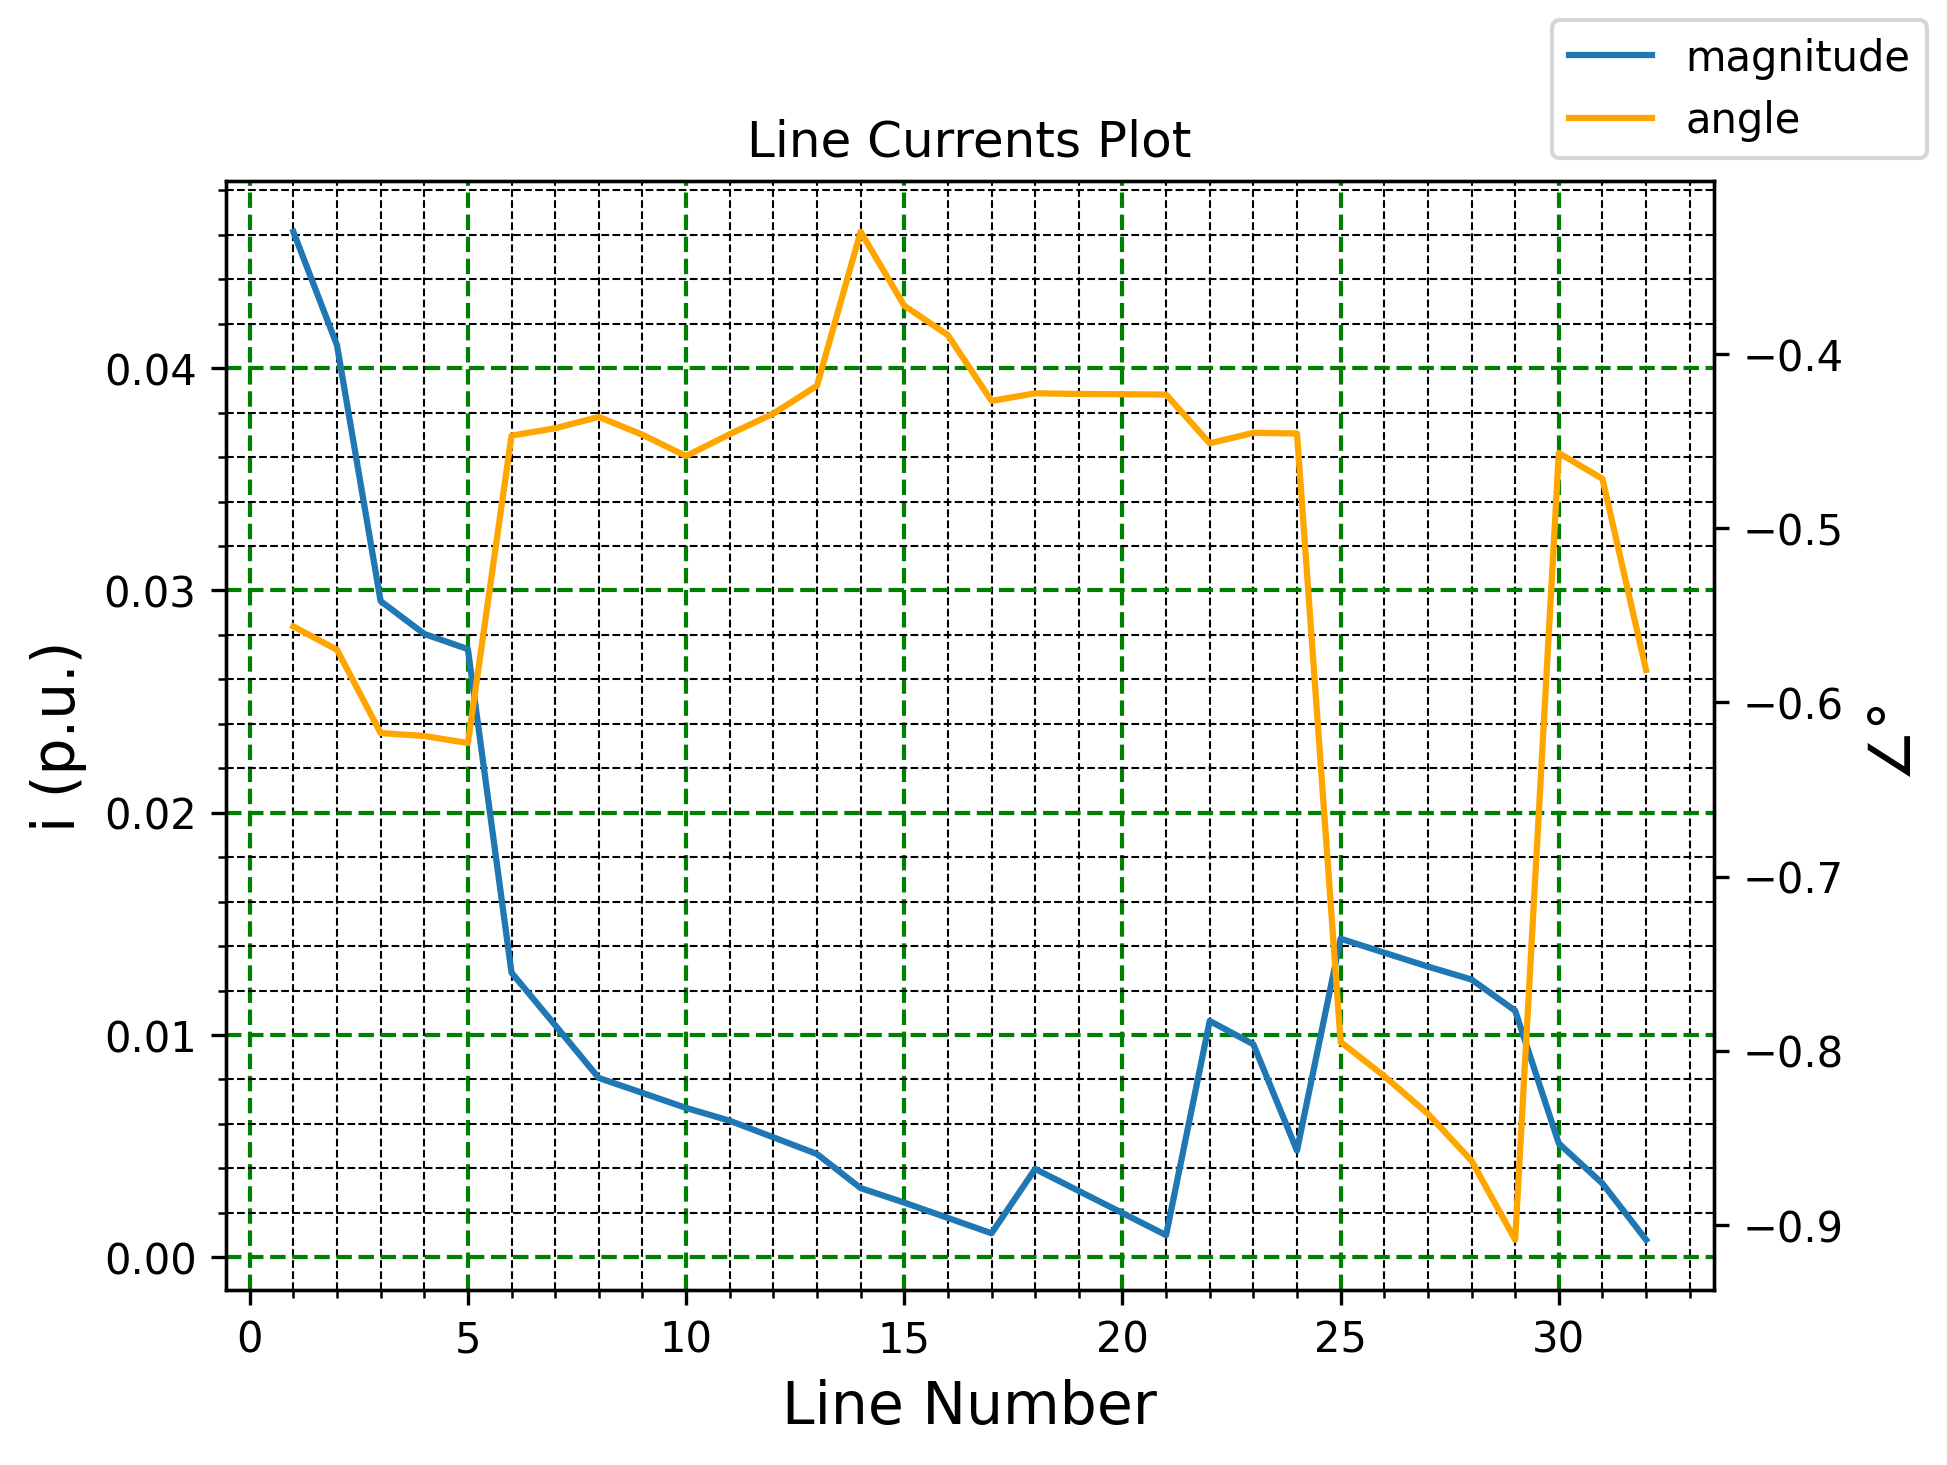
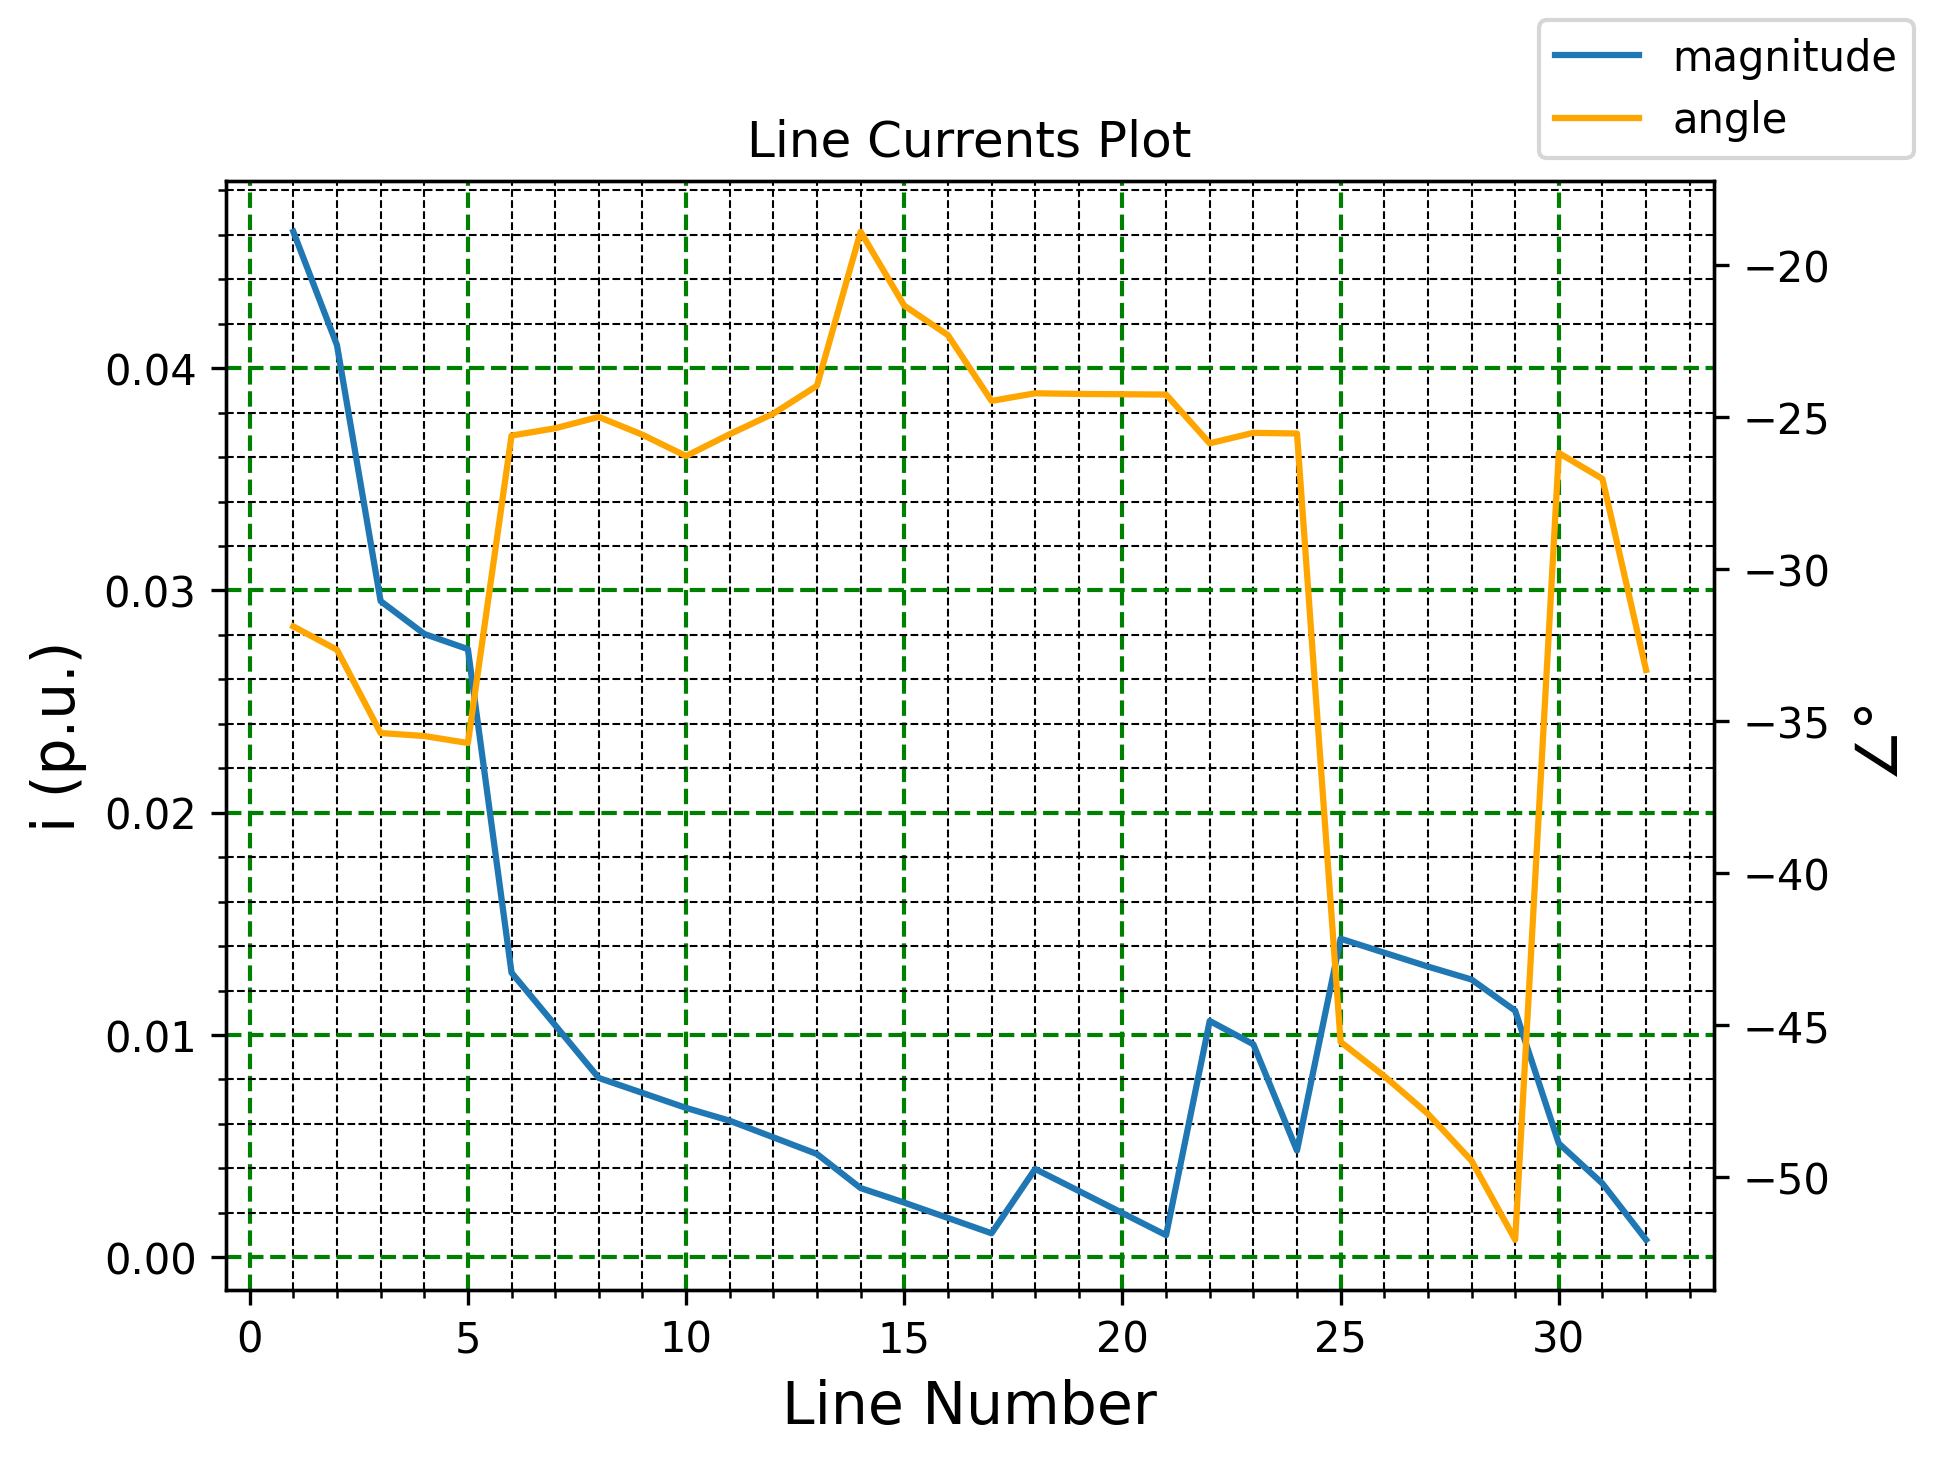
bugfix
angle conversion was radians indeed it is said degrees. converted to degrees thoroughly

Changed region(s): [[0.062, 0.0614, 0.9617, 0.9829], [0.8687, 0.0307, 0.9617, 0.0922]]

diff --git a/functions.py b/functions.py
@@ -1,5 +1,5 @@
 import numpy as np
-import cmath
+import cmath, math
 import matplotlib.pyplot as plt
 
 # https://medogan.com/blogs/2022/06/06/transmission_line_analysis/transmission_line_sending_edge_vi.html
@@ -43,9 +43,12 @@ def getComplex(string: str) -> complex:
 def getPower(current:complex, impedance:complex)->complex:
     return np.abs(current)**2 * impedance
 
+def getAngle(complx):
+    return math.degrees(cmath.phase(complx))
+
 getPolarArr = np.vectorize(getPolar)
 getPowerArr = np.vectorize(getPower)
-getAngleArr = np.vectorize(cmath.phase)
+getAngleArr = np.vectorize(getAngle)
 complexizeArr = np.vectorize(complex)
 
 def plot(xData:np.array, xLabel:str, yData1:np.array, yLabel1:str, yData2:np.array, yLabel2:str, legend:list, title="plotName", savePath=".\\output\\fig.png" )->None:
